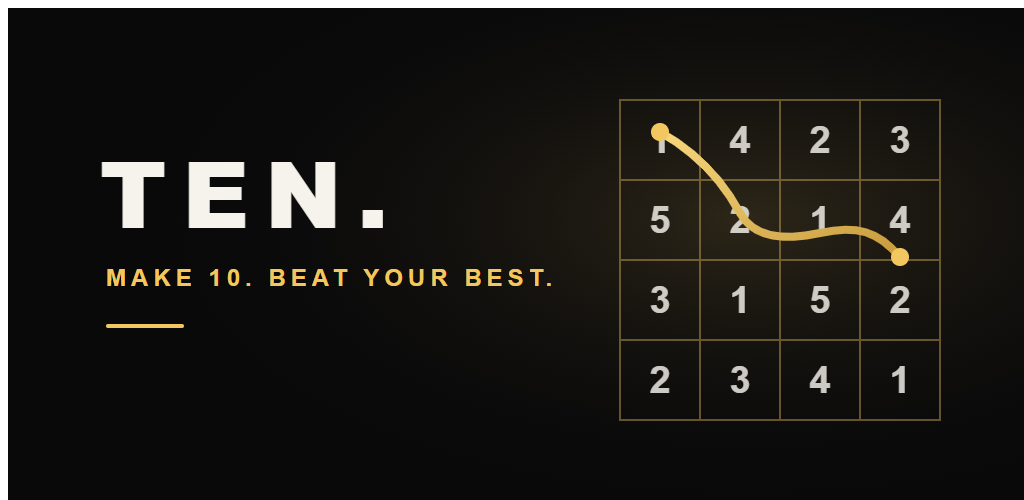
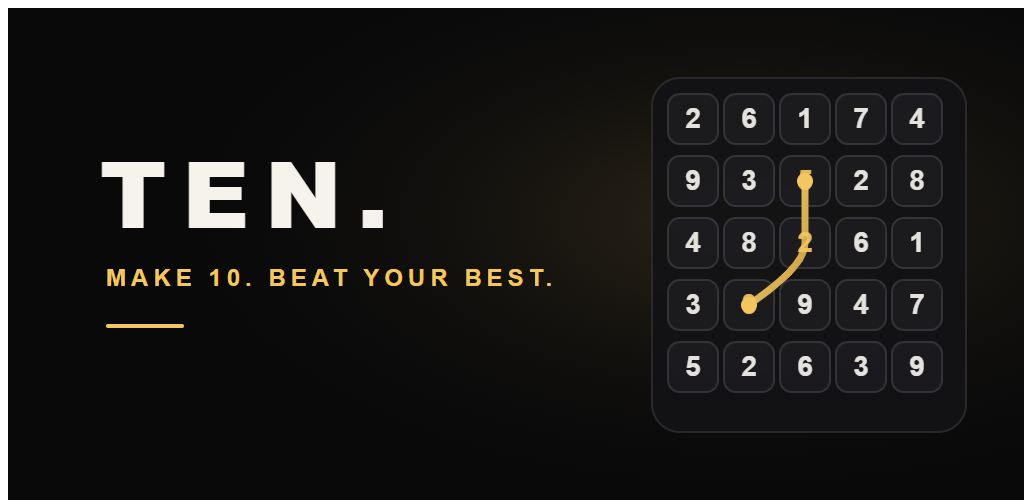
docs: update bilingual Play listing assets

Changed region(s): [[0.5938, 0.15, 0.9375, 0.87]]

diff --git a/docs/deployment/assets/google-play/README.md b/docs/deployment/assets/google-play/README.md
@@ -1,6 +1,6 @@
 # Google Play 掲載アセット
 
-Google Play Console のデフォルト言語（日本語）用に作成した掲載素材です。
+Google Play Console の日本語（`ja-JP`）と英語（米国、`en-US`）の掲載情報で共通利用する掲載素材です。掲載文は Play Console のロケールごとに管理し、画像は言語に依存しないデザインにしています。
 
 | ファイル                         | 用途                               | サイズ              |
 | -------------------------------- | ---------------------------------- | ------------------- |
@@ -8,7 +8,7 @@ Google Play Console のデフォルト言語（日本語）用に作成した掲
 | `feature-graphic.png`            | フィーチャー グラフィック          | 1,024 × 500 px      |
 | `01-home.png` ～ `05-mypage.png` | スマートフォンのスクリーンショット | 各 1,080 × 1,920 px |
 
-PNG は Play Console の形式・寸法要件に合わせています。アイコンとフィーチャー グラフィックは元の SVG を指定キャンバスへ直接レンダリングし、スクリーンショットは実装済みのアプリ画面を 480 × 853 px のスマートフォン表示で撮影した後、レイアウトを変えずに 1,080 × 1,920 px へ変換しています。広告のモック表示や開発用バッジは掲載画像へ含めていません。
+PNG は Play Console の形式・寸法要件に合わせています。アイコンとフィーチャー グラフィックは元の SVG を指定キャンバスへ直接レンダリングし、スクリーンショットは実装済みのアプリ画面を 480 × 853 px のスマートフォン表示で撮影した後、レイアウトを変えずに 1,080 × 1,920 px へ変換しています。フィーチャー グラフィック右側の盤面は `docs/product/assets/ten-product-overview.png` と `ten-ui-design-sheet.png` の盤面・配色を参照しています。広告のモック表示や開発用バッジは掲載画像へ含めていません。
 
 Android本体に同梱するアイコンと起動画面は、リポジトリルートから `powershell -File scripts/generate-android-assets.ps1` を実行して同じアイコン素材から生成します。Play Console用画像だけ差し替えても、インストール後のアプリアイコンは更新されないため、AAB作成前にAndroid側のリソースも更新します。
 
@@ -26,6 +26,7 @@ pnpm --filter @ten/web exec node e2e/capture-google-play-assets.mjs
 2. `feature-graphic.png` をフィーチャー グラフィックへ登録する
 3. `01-home.png` ～ `05-mypage.png` をスマートフォンのスクリーンショットへ登録する
 4. プレビューを確認する。特にアイコンのマスク後の余白、中央位置、スクリーンショットの文字サイズと上下の欠けを確認する
-5. 掲載情報を未公開として保存する
+5. 日本語と英語（米国）の各ロケールで掲載文を入力する
+6. 各ロケールのプレビューを確認し、掲載情報を未公開として保存する
 
 動画は現時点で未登録です。実際のゲームプレイ動画を用意できるまでは空欄にします。

diff --git a/docs/deployment/google-play.md b/docs/deployment/google-play.md
@@ -172,7 +172,7 @@ git push origin vX.Y.Z
 - `0.1.2` / version code `1` が内部テストに公開済み
 - テスターリスト `TEN. Testers` に2名登録済み
 - AABのビルド、署名検証、Google PlayへのアップロードをCIで完了
-- ストア掲載文、アイコン、フィーチャーグラフィック、スクリーンショット5枚をPlay Consoleへ保存済み
+- 日本語（ja-JP）と英語（米国、en-US）のストア掲載文、アイコン、フィーチャーグラフィック、スクリーンショット5枚をPlay Consoleへ保存済み
 - Play Consoleのアプリ設定は完了。画像アセットの元データは `assets/google-play/` に保管
 
 ### 掲載アセット
